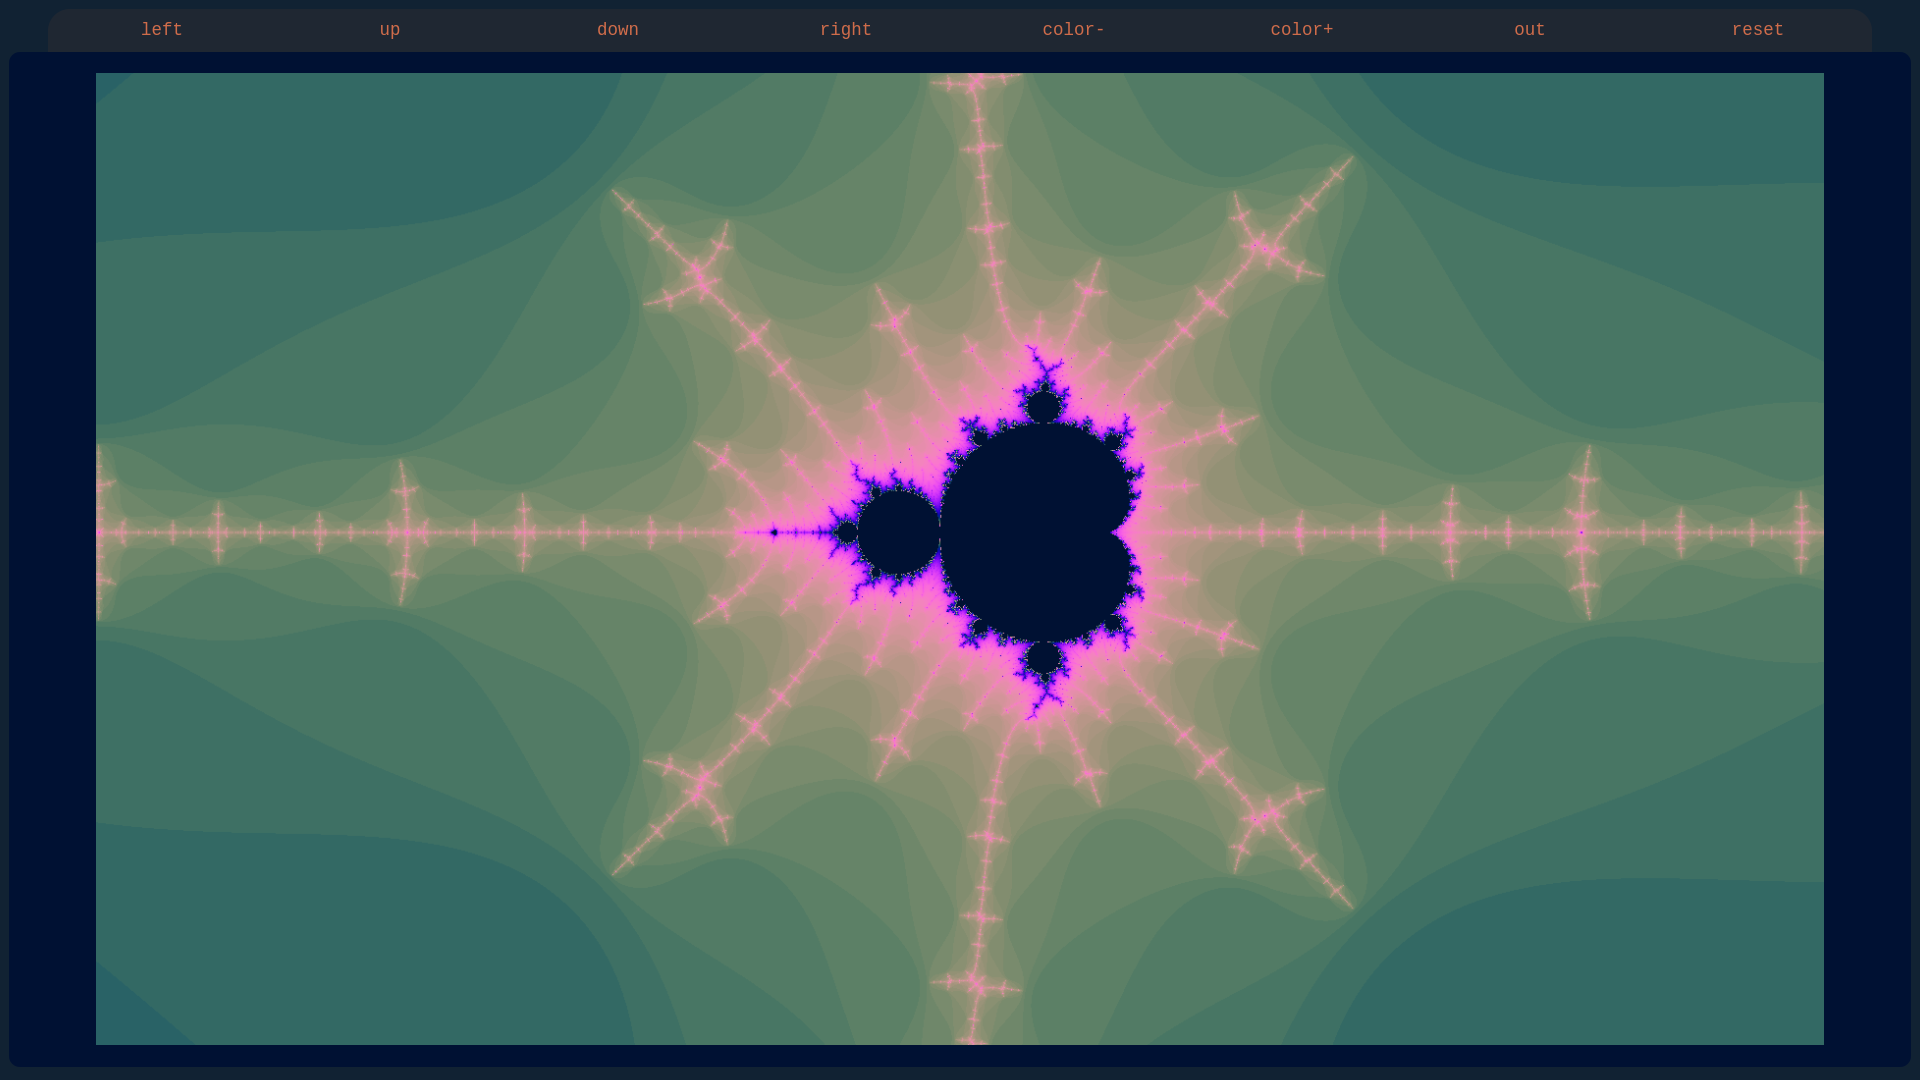
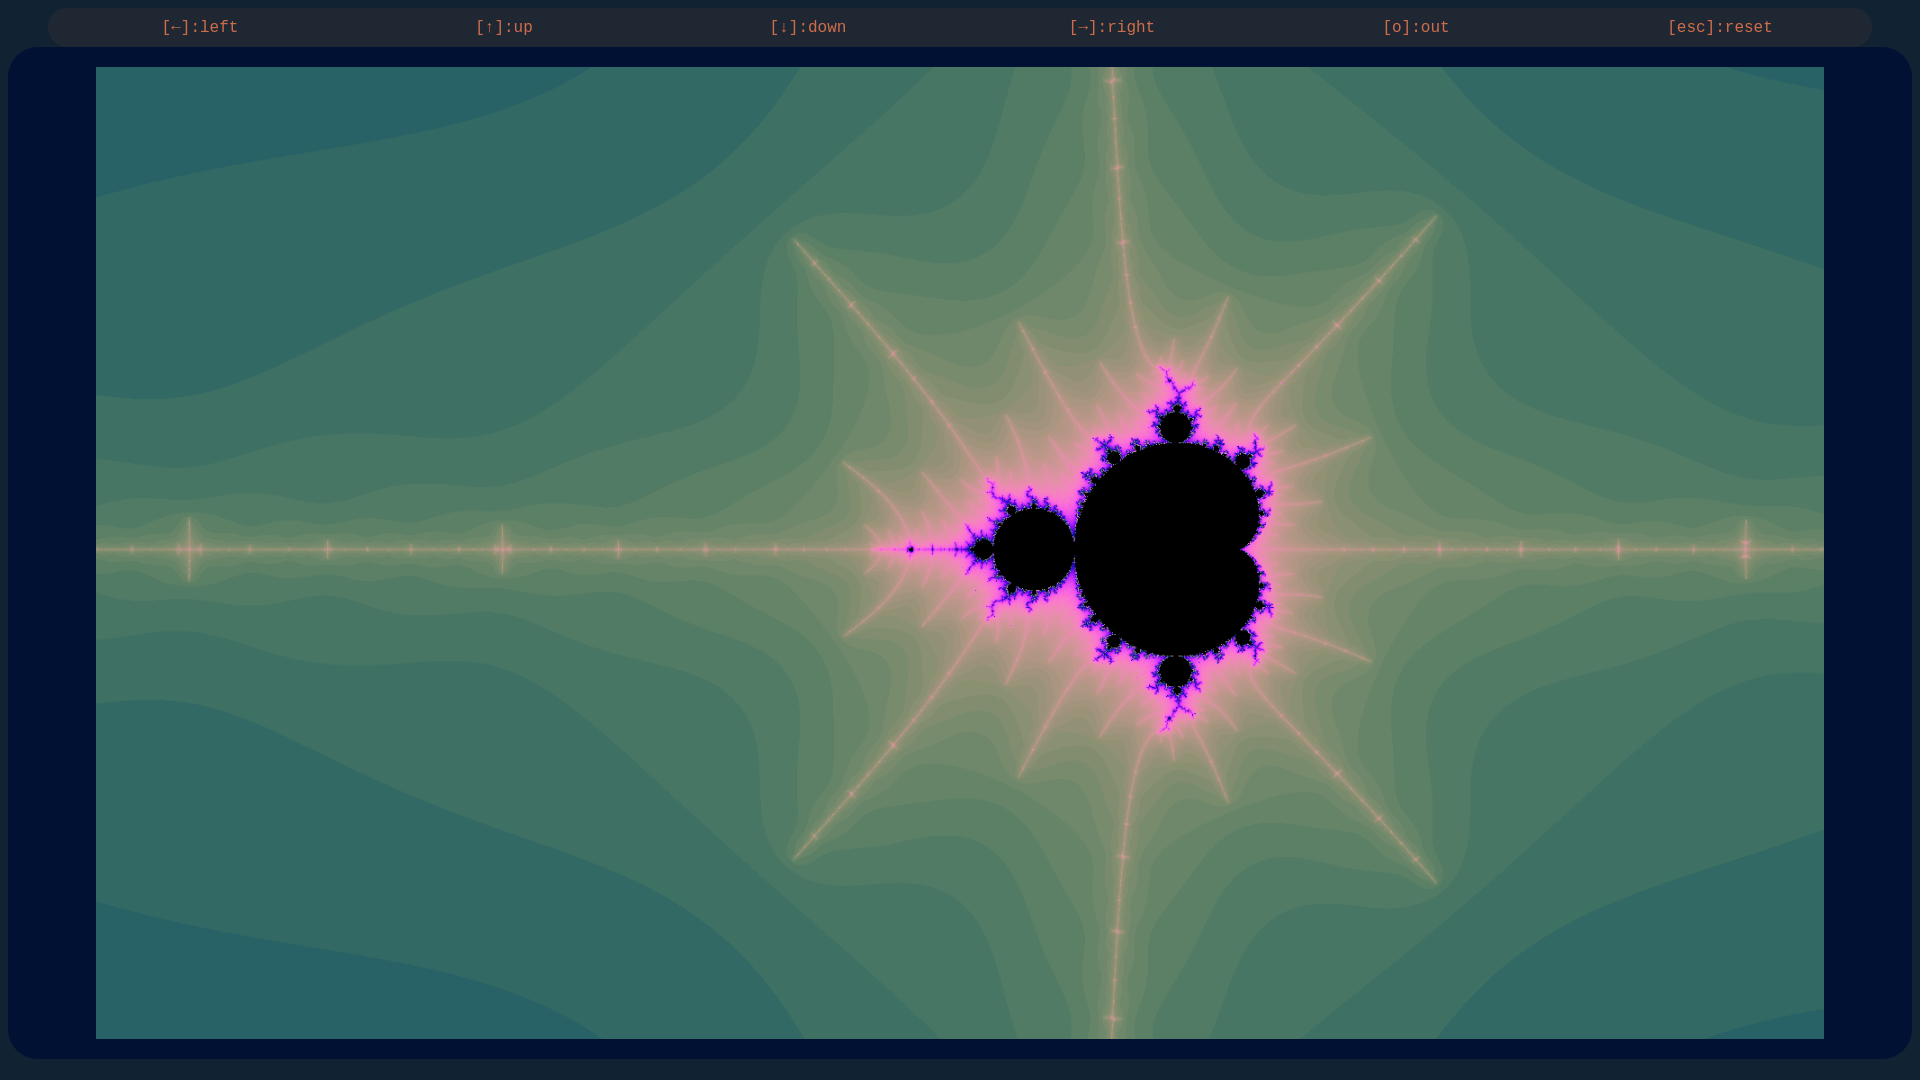
interface

Changed region(s): [[0.0312, 0.0, 0.9688, 0.9778]]

diff --git a/formatted.html b/formatted.html
@@ -38,12 +38,12 @@ The code for this current interface is largely based on that provided in the O'R
 
 	<kw>&ltbody&gt</kw>
 		<kw>&ltdiv class="control_bar"&gt</kw>
-			<kw>&ltdiv id="left"&gt</kw>[←]left<kw>&lt/div&gt</kw>
-			<kw>&ltdiv id="up"&gt</kw>[↑]up<kw>&lt/div&gt</kw>
-			<kw>&ltdiv id="down"&gt</kw>[↓]down<kw>&lt/div&gt</kw>
-			<kw>&ltdiv id="right"&gt</kw>[→]right<kw>&lt/div&gt</kw>
-			<kw>&ltdiv id="out"&gt</kw>out<kw>&lt/div&gt</kw>
-			<kw>&ltdiv id="reset"&gt</kw>reset<kw>&lt/div&gt</kw>
+			<kw>&ltdiv id="left"&gt</kw>[←]:left<kw>&lt/div&gt</kw>
+			<kw>&ltdiv id="up"&gt</kw>[↑]:up<kw>&lt/div&gt</kw>
+			<kw>&ltdiv id="down"&gt</kw>[↓]:down<kw>&lt/div&gt</kw>
+			<kw>&ltdiv id="right"&gt</kw>[→]:right<kw>&lt/div&gt</kw>
+			<kw>&ltdiv id="out"&gt</kw>[o]:out<kw>&lt/div&gt</kw>
+			<kw>&ltdiv id="reset"&gt</kw>[esc]:reset<kw>&lt/div&gt</kw>
 
 		<kw>&lt/div&gt</kw>
 
@@ -293,6 +293,11 @@ history.replaceState<sc>(</sc>state, <dbl_quote>""</dbl_quote>, state.toURL<sc>(
 </comment>	<kw>return</kw> <sc>(</sc><sc>(</sc>alpha&lt&lt24<sc>)</sc> + <sc>(</sc>blue&lt&lt16<sc>)</sc> + <sc>(</sc>green&lt&lt8<sc>)</sc> + <sc>(</sc>red<sc>)</sc><sc>)</sc><sc>;</sc>
 <sc>}</sc>
 
+colorTable = <kw>new</kw> Uint32Array<sc>(</sc>13000<sc>)</sc>
+<kw>for</kw> <sc>(</sc><kw>let</kw> i = 0<sc>;</sc> i &lt colorTable.length<sc>;</sc> i++<sc>)</sc><sc>{</sc>
+	colorTable<sc>[</sc>i<sc>]</sc> = color<sc>(</sc>i<sc>)</sc><sc>;</sc>
+<sc>}</sc>
+
 <kw>function</kw> render<sc>(</sc><sc>)</sc><sc>{</sc>
 	
 	<kw>if</kw> <sc>(</sc>pendingRender<sc>)</sc> <sc>{</sc>
@@ -315,33 +320,39 @@ history.replaceState<sc>(</sc>state, <dbl_quote>""</dbl_quote>, state.toURL<sc>(
 
 	pendingRender = Promise.all<sc>(</sc>promises<sc>)</sc>.then<sc>(</sc>responses =&gt <sc>{</sc>
 		<kw>let</kw> min = maxIterations<sc>;</sc>
+		
 		<kw>let</kw> max = 0<sc>;</sc>
 		<kw>for</kw> <sc>(</sc><kw>let</kw> r of responses<sc>)</sc> <sc>{</sc>
 			<kw>if</kw> <sc>(</sc>r.min &lt min<sc>)</sc> min = r.min<sc>;</sc>
 			<kw>if</kw> <sc>(</sc>r.max &gt max<sc>)</sc> max = r.max<sc>;</sc>
 		<sc>}</sc>
 
-		<comment Class="js">// every iteration count from 0-maxIterations has its own color
-</comment>		<kw>if</kw> <sc>(</sc><sc>!</sc>colorTable || colorTable.length <sc>!</sc>== maxIterations+1<sc>)</sc><sc>{</sc>
-			colorTable = <kw>new</kw> Uint32Array<sc>(</sc>maxIterations+1<sc>)</sc><sc>;</sc>
-		<sc>}</sc>
-		<kw>if</kw> <sc>(</sc>min === max<sc>)</sc> <sc>{</sc> <comment Class="js">// 
-</comment>			<kw>if</kw> <sc>(</sc>min === maxIterations<sc>)</sc> <sc>{</sc>
-				colorTable<sc>[</sc>min<sc>]</sc> = 0xFF000000<sc>;</sc>
-			<sc>}</sc> <kw>else</kw> <sc>{</sc>
-				colorTable<sc>[</sc>min<sc>]</sc> = 0xFF000000<sc>;</sc>
-			<sc>}</sc>
-		<sc>}</sc> <kw>else</kw> <sc>{</sc> <comment Class="js">//TODO change <kw>this</kw><sc>!</sc> transparency is slow and it looks bad too
-</comment>			<kw>for</kw> <sc>(</sc><kw>let</kw> i = min<sc>;</sc> i &lt max<sc>;</sc> i++<sc>)</sc> <sc>{</sc>
-				colorTable<sc>[</sc>i<sc>]</sc> = color<sc>(</sc>i<sc>)</sc><sc>;</sc>
-			<sc>}</sc>
-		<sc>}</sc>
+<comment Class="js">/*
+		// every iteration count from 0-maxIterations has its own color
+		if (!colorTable || colorTable.length !== maxIterations+1){
+			colorTable = new Uint32Array(maxIterations+1);
+		}
+		if (min === max) { // 
+			if (min === maxIterations) {
+				colorTable[min] = 0xFF000000;
+			} else {
+				colorTable[min] = 0xFF000000;
+			}
+		} else { //TODO change this! transparency is slow and it looks bad too
+			for (let i = min; i &lt max; i++) {
+				colorTable[i] = color(i);
+			}
+		}
 		
-
+*/</comment>
 		<kw>for</kw> <sc>(</sc><kw>let</kw> r of responses<sc>)</sc> <sc>{</sc>
 			<kw>let</kw> iterations = <kw>new</kw> Uint32Array<sc>(</sc>r.imageData.data.buffer<sc>)</sc><sc>;</sc>
 			<kw>for</kw> <sc>(</sc><kw>let</kw> i= 0<sc>;</sc> i &lt iterations.length<sc>;</sc> i++<sc>)</sc> <sc>{</sc>
-				iterations<sc>[</sc>i<sc>]</sc> = colorTable<sc>[</sc>iterations<sc>[</sc>i<sc>]</sc><sc>]</sc><sc>;</sc>
+				<kw>if</kw> <sc>(</sc>iterations<sc>[</sc>i<sc>]</sc> === max<sc>)</sc><sc>{</sc>
+					iterations<sc>[</sc>i<sc>]</sc> = 0xFF000000<sc>;</sc>
+					<kw>continue</kw><sc>;</sc>
+				<sc>}</sc>
+				iterations<sc>[</sc>i<sc>]</sc> = colorTable<sc>[</sc>iterations<sc>[</sc>i<sc>]</sc>%colorTable.length<sc>]</sc><sc>;</sc>
 			<sc>}</sc>
 		<sc>}</sc>
 		canvas.style.transform = <dbl_quote>""</dbl_quote><sc>;</sc>

diff --git a/mandelbrot.js b/mandelbrot.js
@@ -169,6 +169,11 @@ function color(iterations) {
 	return ((alpha<<24) + (blue<<16) + (green<<8) + (red));
 }
 
+colorTable = new Uint32Array(13000)
+for (let i = 0; i < colorTable.length; i++){
+	colorTable[i] = color(i);
+}
+
 function render(){
 	
 	if (pendingRender) {
@@ -191,12 +196,14 @@ function render(){
 
 	pendingRender = Promise.all(promises).then(responses => {
 		let min = maxIterations;
+		
 		let max = 0;
 		for (let r of responses) {
 			if (r.min < min) min = r.min;
 			if (r.max > max) max = r.max;
 		}
 
+/*
 		// every iteration count from 0-maxIterations has its own color
 		if (!colorTable || colorTable.length !== maxIterations+1){
 			colorTable = new Uint32Array(maxIterations+1);
@@ -213,11 +220,15 @@ function render(){
 			}
 		}
 		
-
+*/
 		for (let r of responses) {
 			let iterations = new Uint32Array(r.imageData.data.buffer);
 			for (let i= 0; i < iterations.length; i++) {
-				iterations[i] = colorTable[iterations[i]];
+				if (iterations[i] === max){
+					iterations[i] = 0xFF000000;
+					continue;
+				}
+				iterations[i] = colorTable[iterations[i]%colorTable.length];
 			}
 		}
 		canvas.style.transform = "";

diff --git a/main.html b/main.html
@@ -9,12 +9,12 @@
 
 	<body>
 		<div class="control_bar">
-			<div id="left">[←]left</div>
-			<div id="up">[↑]up</div>
-			<div id="down">[↓]down</div>
-			<div id="right">[→]right</div>
-			<div id="out">out</div>
-			<div id="reset">reset</div>
+			<div id="left">[←]:left</div>
+			<div id="up">[↑]:up</div>
+			<div id="down">[↓]:down</div>
+			<div id="right">[→]:right</div>
+			<div id="out">[o]:out</div>
+			<div id="reset">[esc]:reset</div>
 
 		</div>
 
